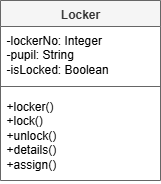
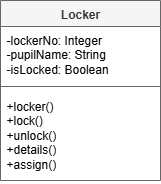
Updated

Changed region(s): [[0.2174, 0.2717, 0.6832, 0.3533]]

diff --git a/ah-cs/sdd/AH-SDD-Lockers/assets/AH-SDD-Lockers.py b/ah-cs/sdd/AH-SDD-Lockers/assets/AH-SDD-Lockers.py
@@ -37,7 +37,8 @@ def readData():
         
         # Extract values
         lockerNo = int(data[0])
-        lock = int(data[1])
+        pupilName = data[1]
+        lock = int(data[2])
         
         # Check lock status
         if lock == 1:
@@ -46,7 +47,7 @@ def readData():
             isLocked = False
         
         # Append new locker object to array
-        arrayOfObjects.append(Locker(lockerNo, '', isLocked))
+        arrayOfObjects.append(Locker(lockerNo, pupilName, isLocked))
         
     return arrayOfObjects
 
@@ -64,7 +65,7 @@ def findLocked(arrayOfObjects):
             print(currentLocker[0])
 
 
-def findPupil(arrayOfObjects, pupilName):
+def findLocker(arrayOfObjects, pupilName):
     '''Procedure to find a pupil's locker, and display the number.'''
     
     # Loop for each locker
@@ -83,16 +84,18 @@ def findPupil(arrayOfObjects, pupilName):
 
 objects = readData()
 
-objects[1].assign('Tom')
 
-print(objects[1].details())
 
 findLocked(objects)
 
-findPupil(objects, 'Tom')
+findLocker(objects, 'Matt Baker')
+
+objects[14].assign('Tom')
+
+print(objects[1].details())
 
 '''
-newLocker = Locker(1, 'Tom')
+newLocker = Locker(1, 'Matta')
 
 print(newLocker.status())
 

diff --git a/ah-cs/sdd/AH-SDD-Lockers/assets/Locker.py b/ah-cs/sdd/AH-SDD-Lockers/assets/Locker.py
@@ -14,7 +14,7 @@ class Locker:
     
         # Instance variables - Private
         self.__lockerNo = lockerNo
-        self.__pupil = pupilName
+        self.__pupilName = pupilName
         self.__isLocked = locked
     
     
@@ -59,11 +59,11 @@ class Locker:
     def details(self) -> tuple:
         '''Method to return the details of a locker.'''
         
-        return self.__lockerNo, self.__pupil, self.__isLocked
+        return self.__lockerNo, self.__pupilName, self.__isLocked
     
     
     def assign(self, pupilName) -> None:
         '''Method to assign a locker to a pupil.'''
         
         # Assign locker to pupil
-        self.__pupil = pupilName
+        self.__pupilName = pupilName

diff --git a/ah-cs/sdd/AH-SDD-Lockers/index4.md b/ah-cs/sdd/AH-SDD-Lockers/index4.md
@@ -15,7 +15,7 @@ A program will be required that will allow a member of staff to manage individua
 Each locker has a small ePaper display on the locker to display the following information:
 
 * a unique locker number
-* who it assigned to
+* who it is assigned to
 * locked / unlocked
 
 An example of a display is show below:
@@ -37,35 +37,61 @@ The app should allow staff to:
 * assign a locker to a pupil
 
 
-## UML Use Case Diagram
+## Analysis
+
+
+### UML Use Case Diagram
 
 The analysis of the proposed system allowed a UML use case diagram to be created.
 
 ![UML use case diagram](assets/diagrams/useCase.png)
 
 
-## UML Class Diagram
+
+## Design
+
+
+### UML Class Diagram
 
 From the analysis, a class for Locker was designed.
 
 ![UML clase diagram](assets/diagrams/class.png)
 
 
-## Top Level Design
+### Top Level Design
 
 ![Structure diagram](assets/diagrams/sd.png)
 
 
-## Locker Class
+#### Example UI
+
+```
+Number of lockers read from file: 20
+
+The following lockers are unlocked:
+
+    5
+    19
+
+Locker 13 is assigned to Jodie Whittaker.
+
+Locker 14 has been assigned to Ncuti Gatwa.
+```
+
+
+## Implementation
+
+
+### Locker Class
 
 From UML class diagram, the Locker class was implemented.
 
 Class code: [Locker.py](assets/Locker.py "Download file")
 
 
-## Locker Data
+### Locker Data
 
-The details of the all the lockers have been saved to file.
+The details of the all the lockers have been saved to a file.
 
 Locker data: [Lockers.csv](assets/Lockers.csv "Download file")
 
@@ -73,4 +99,4 @@ Locker data: [Lockers.csv](assets/Lockers.csv "Download file")
 
 ## Tasks
 
-1. Using the class code provided, implement functions for the search use cases.
+1. Using the class and data provided, implement the top level design.

diff --git a/ah-cs/sdd/AH-SDD-Lockers/index3.md b/ah-cs/sdd/AH-SDD-Lockers/index3.md
@@ -54,3 +54,5 @@ From the analysis, a class for Locker was designed.
 ## Tasks
 
 1. Implement the class.
+
+2. Test the class.
